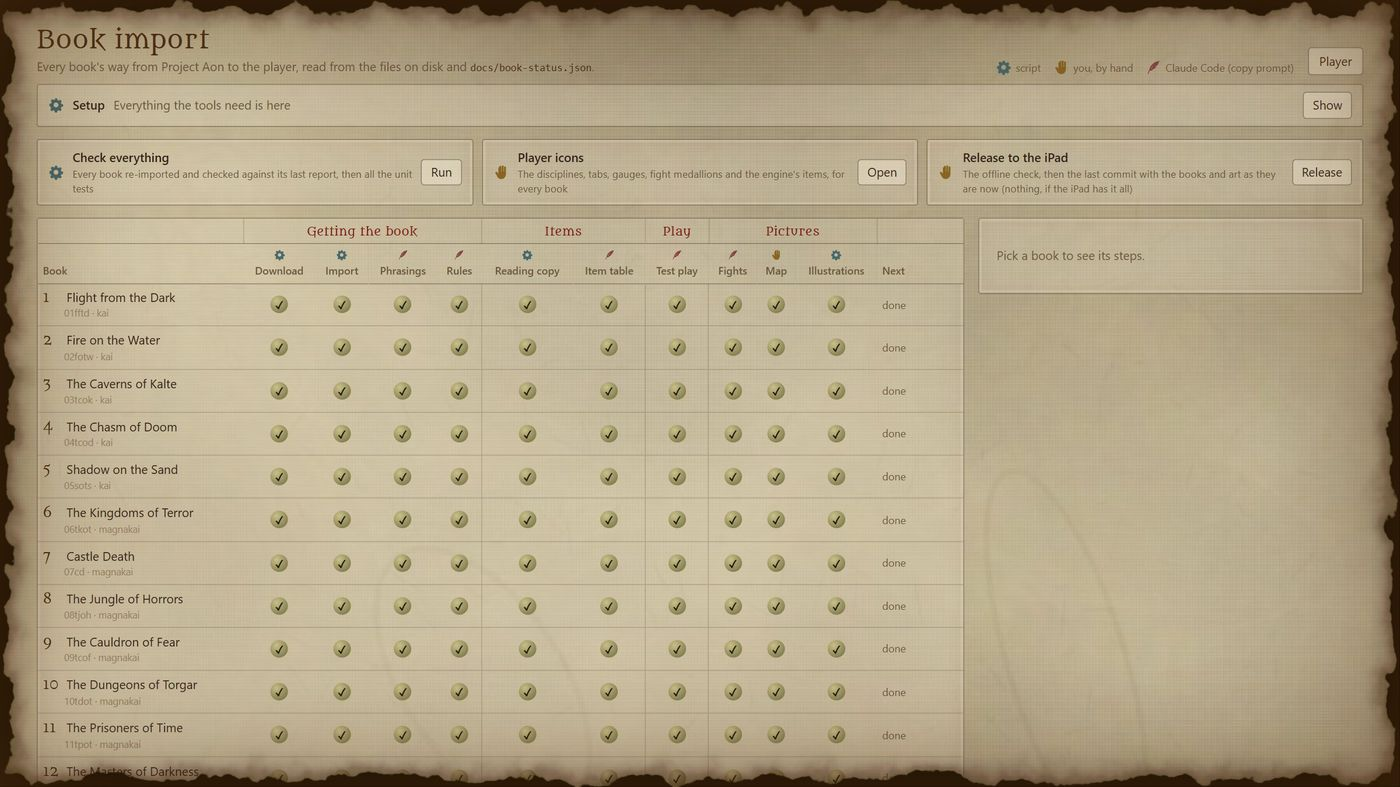
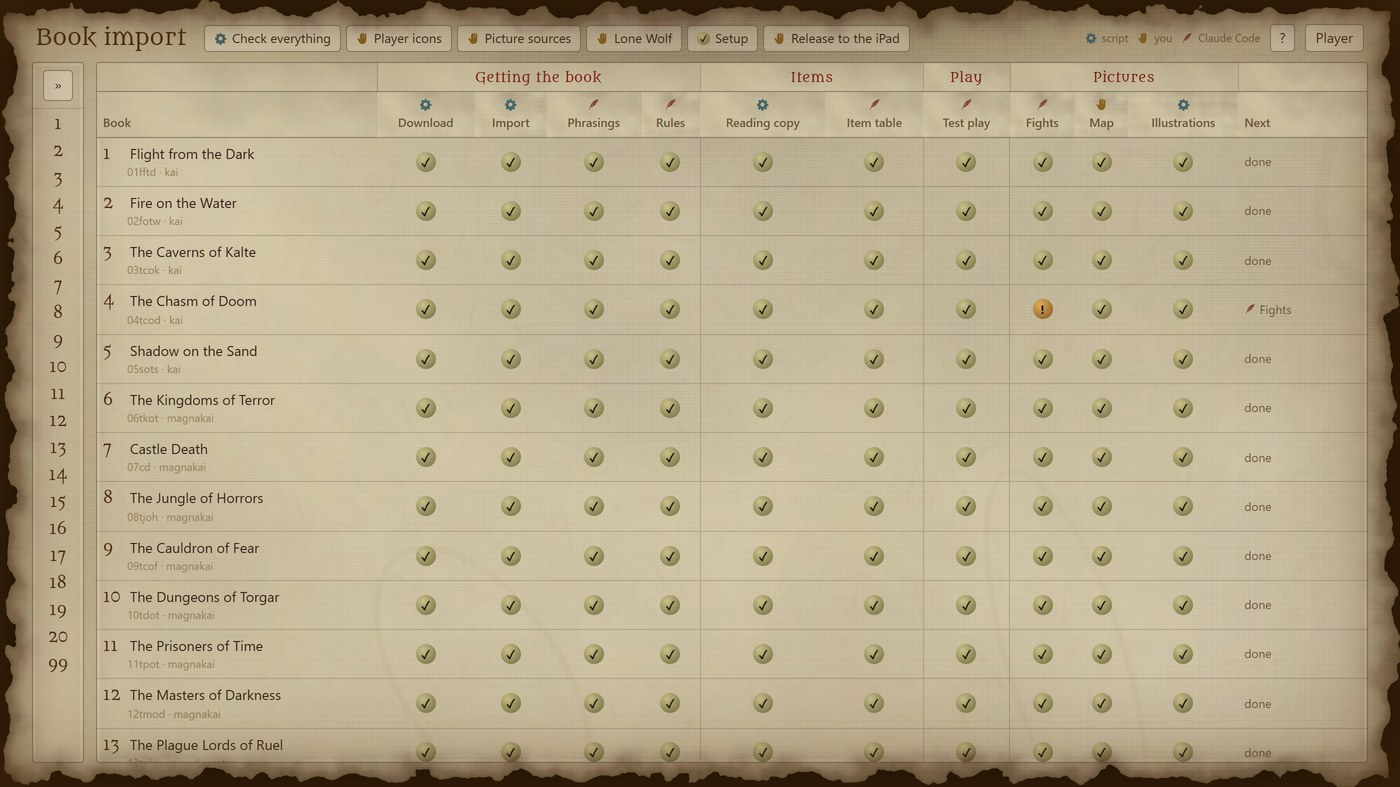
Showcase: the dashboard's rail and step tabs, Select and one prompt, the proposal sheet, Lone Wolf's pictures
New captures of the demo book (20, 21, 27-29) and the README's text for them; fight kinds,
the add-by-hand picker and Release's push noted.

diff --git a/docs/showcase/README.md b/docs/showcase/README.md
@@ -40,7 +40,8 @@ Number is drawn on a medallion; a death can be rewound.
 ![The inventory ledger](images/06-inventory.jpg)
 
 **The inventory is a ledger** like the hero's page: weapons either side of a wolf's-head crest, Special
-Items counted against the limit of twelve, an eight-tile Backpack and the gold.
+Items counted against the limit of twelve, an eight-tile Backpack and the gold. Adding an item by hand picks
+from every item the books know, earlier books' Special Items folded away by book; nothing is typed.
 
 ![A fight, as it begins](images/07-fight-start.jpg)
 
@@ -48,7 +49,8 @@ Items counted against the limit of twelve, an eight-tile Backpack and the gold.
 
 **Combat** shows the round log on the left page and the foe on the right, with Strike, Mindblast and
 Evade as bronze medallions. Every foe has a picture of its own, the same creature from another book, or a
-stand-in; the player inks it to sepia live.
+stand-in; the player inks it to sepia live. Not every fight is a foe: a door is fought as an obstacle (no
+Mindblast, and "Leave it" costs no blow), a contest or a fight of the mind is worded and drawn as such.
 
 ![Magnakai setting out](images/09-magnakai-setting-out.jpg)
 
@@ -70,13 +72,15 @@ Each book goes through nine steps: download, import, phrasings, rules addendum, 
 fight pictures, map and illustrations. The import dashboard (`tools/admin/`, this PC only) shows where each
 book stands, runs the script steps, and hands the steps that need judgement to Claude Code as a ready prompt.
 
-![The dashboard](images/20-dashboard-grid.jpg)
+![A book, its steps as tabs, the rail of books](images/21-dashboard-book.jpg)
 
-![A book's panel](images/21-dashboard-book.jpg)
+![All books](images/20-dashboard-grid.jpg)
 
-**The dashboard** reads every step from the files on disk and the owner's hand marks, never from a checklist
-that might be out of date. A cog is a script, a hand is the owner, a quill is Claude Code. Gated buttons
-(download, import, re-import all) wait for the owner's go-ahead.
+**The dashboard** is a rail of books (each with its ten steps as small seals), the open book's steps as tabs,
+and the step's evidence and buttons; a sheet opens inside its step, and Full window gives it the whole
+screen. The grid shows every book against every step. Everything is read from the files on disk and the
+owner's hand marks, never from a checklist that might be out of date. A cog is a script, a hand is the owner,
+a quill is Claude Code. Gated buttons (download, import, re-import all) wait for the owner's go-ahead.
 
 ![The fight picture sheet](images/22-sheet-fights.jpg)
 
@@ -85,6 +89,20 @@ where it came from and what the enemy is. Pictures can be dropped, pasted or fet
 for its source link, or is marked as made with AI from a text prompt, and then kept in the repository), cropped,
 flipped and levelled with the fight panel previewed, and approved with a date.
 A picture the owner supplies wins over every other source.
+
+![Select and one prompt for them all](images/27-sheet-fights-select.jpg)
+
+**Asking Claude Code for better pictures** is a button: a card's Prompt copies step 7's agent prompt
+narrowed to that enemy, and Select ticks several cards for one "Prompt for N selected", cheaper than one each.
+
+![The proposal sheet](images/28-sheet-proposals.jpg)
+
+**The proposal sheet** is where the answer comes back. For each enemy the agent looked at: the picture shown
+now, its candidates inked as in a fight with the agent's pick outlined and why, and beside them the book's own
+sections where the enemy is met, with the sentences that describe it highlighted. Use this or Keep as is
+settles a row; none fits, and the row's prompt goes to an image generator, whose picture is pasted straight
+onto the row as one more candidate. Finish ends the round, and the next round leaves alone what was settled.
+(Shown on the demo book's one foe, with public-domain engravings as candidates.)
 
 ![The illustration sheet](images/23-sheet-illustrations.jpg)
 
@@ -102,11 +120,16 @@ It only looks; nothing on it changes a file.
 need it. *Change icon...* picks another from the icons on this PC or from game-icons.net (saved and credited
 as it is picked).
 
+![Lone Wolf's pictures](images/29-hero-pictures.jpg)
+
+**Lone Wolf's pictures** bakes the title page's and the Kai panel's Lone Wolf from the owner's drawing, at
+the iPad's size, into the two small files the player loads.
+
 Other tools on the dashboard: *Check everything* (re-imports every book against its last report, runs every
 item table's check, the approved fight pictures, the offline copy and a check that no description repeats a
 book's wording, then both test suites, in about ten seconds), *Picture sources* (where each borrowed picture
 came from), *Scan phrasings*, *Diff rules*, *Walk the book* (a play-through in Node), *Draft and compare* an item
-table, *Release to the iPad* (the offline check first) and *Setup* for a fresh checkout.
+table, *Release to the iPad* (the offline check first, then the release, then a push of `main` to GitHub) and *Setup* for a fresh checkout.
 
 ## Maps
 
